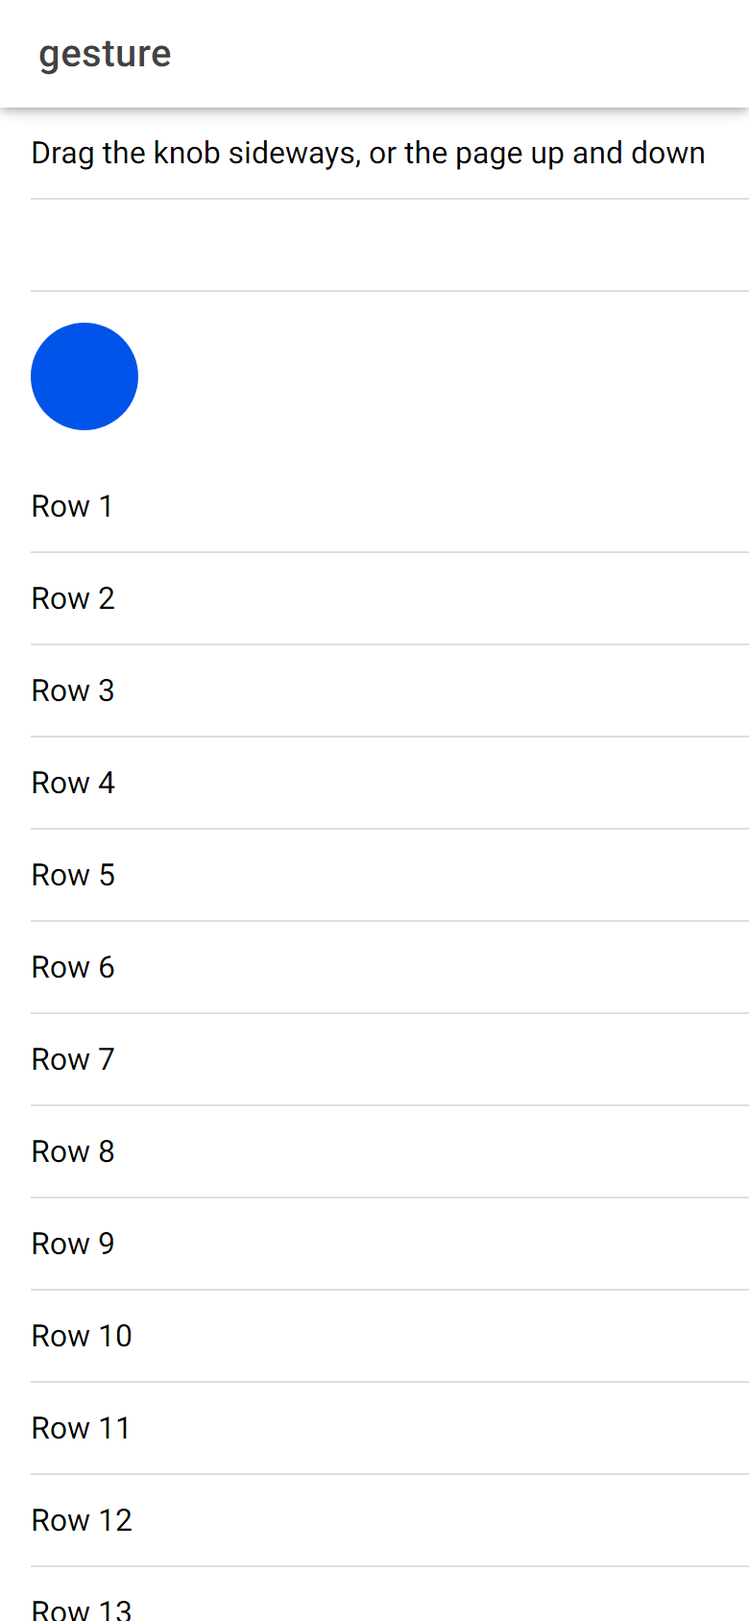
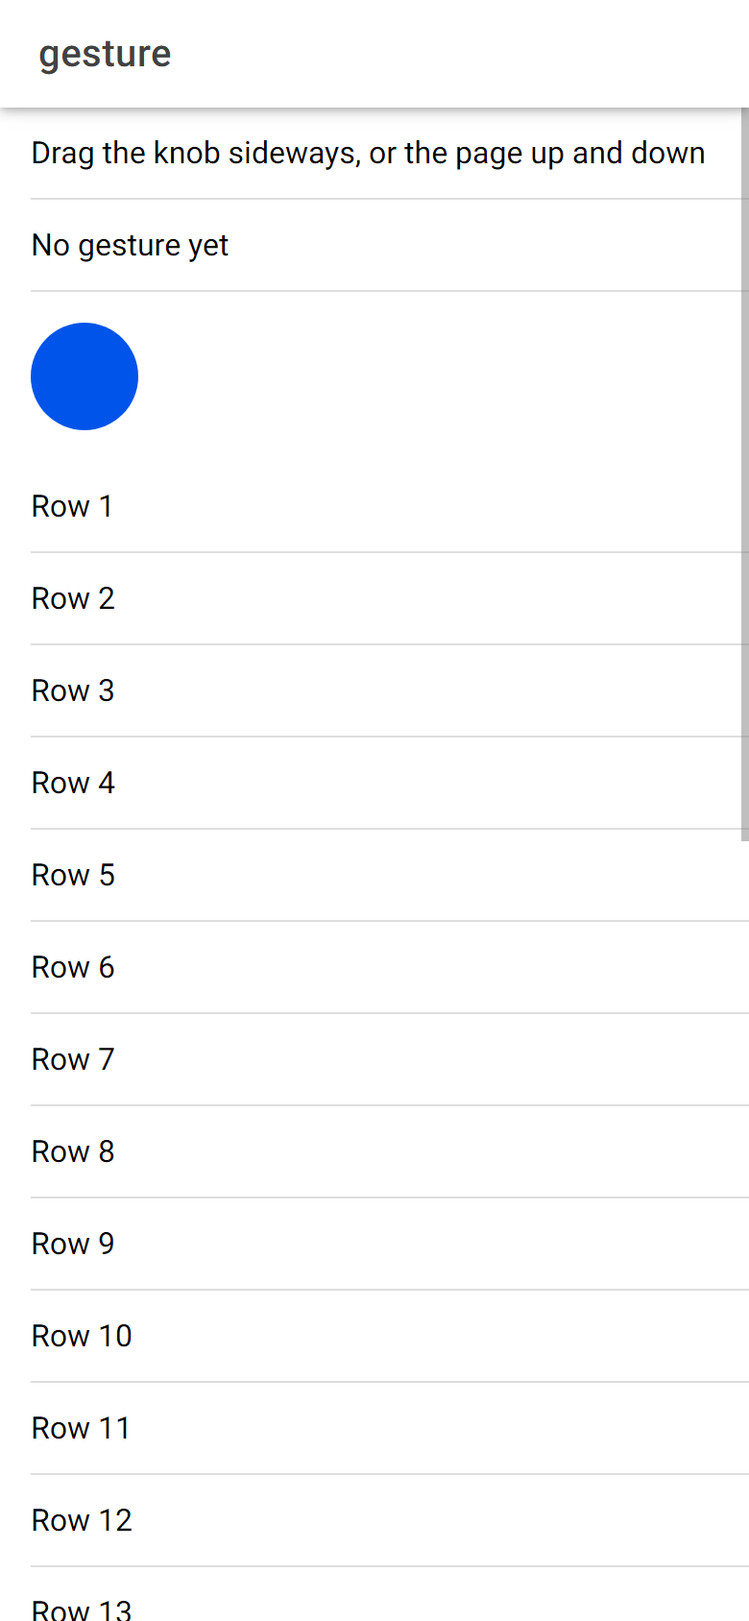
docs: roll up the tables after Ionic 9 (#190), and the pictures
CLAUDE.md: the ion-app row, the content's scroll bar, ion-img kept (ADR 0004),
the Ionic 9.0.11 / ionicons 8.1.0 base, and the mapping and Repository rows
proposed in #180, #184, #193, #194, #195, #197, #200, #208, #210 and #222.
ROADMAP: Ionic 9's 94 components, and the Done rows since the last roll-up.
swarm-brief: the datetime's month scroll under `animated` (#194), and never
posting to a repository we don't own. real-window: 239 checks on 28c4288.
Pictures regenerated; the gesture, fab, note and text pages fixed.

Changed region(s): [[0.9846, 0.0616, 1.0, 0.5237], [0.1231, 0.1232, 0.3077, 0.154], [0.0308, 0.1232, 0.0923, 0.154]]

diff --git a/CLAUDE.md b/CLAUDE.md
@@ -32,6 +32,12 @@ src/Avonic.Components/   controls: behaviour, properties, events, structure — 
                          margins, and the one-line native TextBox's ControlTheme
   Controls/List/         AvonicList, and in AvonicList.StuckDivider.cs the copy it draws of a sticky AvonicItemDivider whose row
                          its virtualising panel has recycled (for items that are data, not controls)
+  Controls/Item/         AvonicItem, IItemControl, and ItemMultipleInputsObserver (Ionic's createItemMultipleInputsObserver): a
+                         checkbox, radio or toggle watching its item's pseudoclasses, and telling the item when it comes or goes
+                         inside a wrapper in a slot
+  Controls/App/          AvonicApp, and what it starts for its TopLevel: HardwareBackButton (ionBackButton's registry),
+                         KeyboardAssist (ionKeyboardDidShow, ionKeyboardDidHide), InputShims (scroll assist and padding),
+                         AppSafeArea
   Behaviors/             Ionic's utilities as attached behaviours (NativeButton = what a native <button> does, for the controls with one;
                          AccessibleText = what a browser names a button from; TextContent = textContent, for a label to hide;
                          Activatable = tap-click; FocusVisible = focus-visible; IonStyle = the internal ionStyle event;
@@ -72,13 +78,15 @@ tests/Avonic.Components.Tests/   Avalonia.Headless (Skia) + xUnit v3 behaviour t
                                  check it on an upgrade, docs/infra/avalonia-issues.md); Harness/ tests both;
                                  Performance/ holds the style budget (docs/infra/performance/README.md)
 samples/Avonic.Sample/   the sample, a library its heads share: SampleShell (the page list, a page, Back), one page per
-                         control, each marked [SamplePage], and a device page; a Debug build shows what each page cost
-                         to open (Diagnostics/)
+                         control, each marked [SamplePage], and a device page, and a showcase (Pages/ShowcasePage.axaml,
+                         its screens in Pages/Showcase/): a small app the README's pictures show; a Debug build shows what
+                         each page cost to open (Diagnostics/)
 samples/Avonic.Sample.Desktop/   the desktop head: Program.cs, opening MainWindow, a phone-sized window
 samples/Avonic.Sample.Android/   the Android head, not in Avonic.sln, as it needs the android workload; CI's android job
                          builds the APK. Run on a Pixel 8 (docs/infra/android/README.md)
 Directory.Build.targets  generates XamlManifest.Paths from a project's AvonicDiscoveredXaml globs
 tools/ionic-api.js       core.json → fidelity checklist (the spec for every control)
+tools/ionic-diff.js      diffs two versions of Ionic as Avonic reads them, normalised, for moving the base version
 tools/ionic-ref/         renders the real Ionic component in headless Chromium (md, phone viewport):
                          screenshots, shadow DOM, boxes, resolved CSS vars → docs/components/<tag>/ref/;
                          compare-icons.js compares every icon against it, pixel by pixel; side.js puts two
@@ -90,7 +98,10 @@ tools/fonts/roboto/      Roboto 400, 500 and 700 (OFL): the sample and the tests
 tools/breakage/          breaks each behaviour in a copy of the repo, and checks that a test notices
 tools/real-window/       drives the real sample window with real input and checks it; takes over the PC, so ask first
 docs/                    PROCESS, ROADMAP, decisions, per-component plan/comparison/docs; infra/swarm-brief.md
-                         for a batch of agents, infra/avalonia-issues.md for what to report to Avalonia
+                         for a batch of agents; infra/ionic-base/ for the Ionic version and how it's moved;
+                         infra/avalonia-issues.md for what to report to Avalonia, which only the human files
+PREVIEW.md, docs/preview/   the showcase in light and dark and a frame of every sample page, from PreviewCaptureTests with
+                         AVONIC_PREVIEW_DIR set; a roll-up regenerates them
 .mcp.json                Claude Code MCP servers: avalonia-docs (Avalonia's hosted Build MCP — docs and API lookup)
 ```
 
@@ -118,7 +129,7 @@ central in `Directory.Packages.props`; warnings are errors. Solution file is `Av
 | `ion-item-divider` | `AvonicItemDivider` | done — [docs](docs/components/ion-item-divider/README.md) |
 | `ion-item-group` | `AvonicItemGroup` | done — [docs](docs/components/ion-item-group/README.md) |
 | `ion-button` | `AvonicButton` (+ `ButtonInner`, its template's inner part; `Command`, `TextTransform` as extensions) | done — [docs](docs/components/ion-button/README.md) |
-| `ion-content` | `AvonicContent` | done — [docs](docs/components/ion-content/README.md) |
+| `ion-content` | `AvonicContent` (+ `ScrollBars`, by `AvonicConfig.ContentScrollBars`, an extension, #175) | done — [docs](docs/components/ion-content/README.md) |
 | `ion-card` | `AvonicCard`, `AvonicCardHeader`, `AvonicCardTitle`, `AvonicCardSubtitle`, `AvonicCardContent` | done — [docs](docs/components/ion-card/README.md) |
 | `ion-header` | `AvonicHeader` | done — [docs](docs/components/ion-header/README.md) |
 | `ion-footer` | `AvonicFooter` | done — [docs](docs/components/ion-footer/README.md) |
@@ -132,7 +143,7 @@ central in `Directory.Packages.props`; warnings are errors. Solution file is `Av
 | `ion-badge` | `AvonicBadge` | done — [docs](docs/components/ion-badge/README.md) |
 | `ion-avatar` | `AvonicAvatar` | done — [docs](docs/components/ion-avatar/README.md) |
 | `ion-thumbnail` | `AvonicThumbnail` | done — [docs](docs/components/ion-thumbnail/README.md) |
-| `ion-img` | `AvonicImg` | done — [docs](docs/components/ion-img/README.md) |
+| `ion-img` | `AvonicImg` | done, kept ([ADR 0004](docs/decisions/0004-keep-what-the-browser-does.md)) — [docs](docs/components/ion-img/README.md) |
 | `ion-skeleton-text` | `AvonicSkeletonText` | done — [docs](docs/components/ion-skeleton-text/README.md) |
 | `ion-progress-bar` | `AvonicProgressBar` | done — [docs](docs/components/ion-progress-bar/README.md) |
 | `ion-chip` | `AvonicChip` (+ `Click`, from `Behaviors.NativeButton`, and `Command`, as extensions) | done — [docs](docs/components/ion-chip/README.md) |
@@ -155,6 +166,7 @@ central in `Directory.Packages.props`; warnings are errors. Solution file is `Av
 | `ion-reorder`, `ion-reorder-group` | `AvonicReorder`, `AvonicReorderGroup` (`Disabled`, true by default as Ionic's, turns only the drag off; `Complete(list)` reorders a list) | done — [docs](docs/components/ion-reorder/README.md) |
 | `ion-refresher`, `ion-refresher-content` | `AvonicRefresher`, `AvonicRefresherContent` (md's native refresher; Ionic's legacy one isn't here; + `RefresherColumn`, the content's column, centred both ways as a flex column is) | done — [docs](docs/components/ion-refresher/README.md) |
 | `ion-picker`, `ion-picker-column`, `ion-picker-column-option` | `AvonicPicker`, `AvonicPickerColumn`, `AvonicPickerColumnOption` (+ `PickerColumnPanel`, the column's snapping panel; `HorizontalContentAlignment` on the column, as an extension) | done — [docs](docs/components/ion-picker/README.md) |
+| `ion-app` | `AvonicApp` (+ `HardwareBackButton`, `KeyboardAssist`; `AvonicConfig.HandleUnclaimedBack` as an extension) | done — [docs](docs/components/ion-app/README.md) |
 
 Every row has completed every step in `docs/PROCESS.md`. Rows are added in a roll-up at the end of
 each priority tier, not by the control's own PR, so a recently finished control may be missing. For
@@ -165,7 +177,8 @@ the latest, see the `Status:` line in `docs/components/<ion-tag>/README.md`
 
 ## Ionic reference material
 
-Fetched by `npm install` (never committed):
+Fetched by `npm install` (never committed): Ionic **9.0.11** (`@ionic/core`, `@ionic/docs`) and ionicons **8.1.0**, the base
+[`docs/infra/ionic-base/README.md`](docs/infra/ionic-base/README.md) records, with how it's moved.
 
 | What | Path |
 |---|---|
@@ -195,7 +208,7 @@ in the published npm package — do not look for `.tsx` or `.scss` files.
 | `@Event() ionFoo` | routed event `IonFooEvent`, CLR event `IonFoo` — prefix kept, no collisions with Avalonia members | `ionChange` → `IonChange` |
 | `@Method() foo()` | public method `Foo()`; `Promise<T>` → `T` (sync) unless genuinely async | `close()` → `Close()` |
 | default slot | `Content` | |
-| Many children, with no slot in `core.json` | `Items` | `ion-list` → `AvonicList.Items` |
+| A default slot for many children that the component lays out or manages (its `.js` reads its children, or its CSS lays them out as a row, a stack or a wrap), whether `core.json` lists the slot or not: since Ionic 9 it lists `(default)` on most components, and still on none of `ion-list`, `ion-item-group`, `ion-reorder-group`, `ion-item-options` | `Items` | `ion-list` → `AvonicList.Items`, `ion-row` → `AvonicRow.Items`; a slot for text or one thing (`ion-label`, `ion-badge`, `ion-card-content`) stays `Content` |
 | named slot `foo` | `FooContent` (+ `FooContentTemplate`) | `start` → `StartContent`; `icon-only` → `IconOnlyContent` |
 | `part="foo"` | template element `PART_Foo` | `native` → `PART_Native` |
 | host class from a prop | pseudoclass `:<prop>-<value>` | `button-solid` → `:fill-solid` |
@@ -253,7 +266,7 @@ in the published npm package — do not look for `.tsx` or `.scss` files.
 | A slotted child with no height of its own, in a panel | It collapses, as `align-items: center` does in CSS. `VerticalAlignment="Stretch"` on it fills the panel | A background behind text: put the `Grid` in a `Border`, which isn't a panel |
 | `::slotted(ion-foo:not(:first-child))` | `c\|Host > :is(Panel) > c\|Foo:not(:nth-child(1))` | a panel stands for the slot |
 | `ion-foo.ion-color .ion-inherit-color` | `c\|Foo:ion-color c\|Bar`, with `Foreground` bound to `$parent[Control].(TextElement.Foreground)` | after `:ion-color`, which it beats |
-| `--ion-safe-area-top` | `Avonic.SafeAreaTop` (`double`), 0 by default, as Avalonia pads its root view itself. The app fills them | also `Bottom`, `Left`, `Right`. `calc(var(--padding-start) + var(--ion-safe-area-left))` → `Css.SafeAreaBox`, which swaps sides in RTL. The item, the divider and the list header read them |
+| `--ion-safe-area-top` | `Avonic.SafeAreaTop` (`double`), 0 by default, as Avalonia pads its root view itself. `AvonicApp` fills them while the root has `TopLevel.AutoSafeAreaPadding` off; without one, the app does | also `Bottom`, `Left`, `Right`. `calc(var(--padding-start) + var(--ion-safe-area-left))` → `Css.SafeAreaBox`, which swaps sides in RTL. The item, the divider and the list header read them |
 | `requestAnimationFrame`, `readTask` | `AvonicConfig.RequestFrame` | `TestClock` runs it at 16 ms, so that it asserts the timeline |
 | Ionic's global config (`config.get('foo')`) | A static property on `AvonicConfig`, read when Ionic reads it: in `render()`, that's the first attach and each change of a prop; as a prop's default, in the constructor, at style priority, so an app's value wins; in `componentWillLoad` or `componentDidLoad`, once, on the first load, through `ConfigOnLoad<T>` made in the constructor: `AtStylePriority`, or `IfUnset` (`SetCurrentValue` if the prop isn't set), where clearing it later must give Ionic's `undefined`. A spinner key is a `ConfigSpinner?`: null is not set, so the fallback applies, and `ConfigSpinner.None` is Ionic's `null`, which `config.get` returns as it is | `spinner` → `AvonicConfig.Spinner`; `backButtonIcon` → `AvonicConfig.BackButtonIcon`, the searchbar's `CancelButtonIcon`; `toggleOnOffLabels` → `AvonicConfig.ToggleOnOffLabels` (constructor); `tabButtonLayout` → `AvonicConfig.TabButtonLayout` (first attach, style priority); `infiniteLoadingSpinner` → `AvonicConfig.InfiniteLoadingSpinner` (first attach, `IfUnset`: cleared, no spinner); `refreshingIcon`, `refreshingSpinner` → `AvonicConfig.RefreshingIcon`, `.RefreshingSpinner` (first load, `IfUnset`) |
 | `overflow: hidden` on a scroller's vertical axis | `Hidden`, with input blocked in the control, not `Disabled`, which resets the position | `ScrollY="False"` |
@@ -271,7 +284,8 @@ in the published npm package — do not look for `.tsx` or `.scss` files.
 | `createAnimation()` | `AvonicAnimation.Create()`, members in PascalCase; CSS values as strings, `var()` read from the resource by the builder | `.fromTo('opacity', 0.01, 'var(--backdrop-opacity)')` → `.FromTo("opacity", 0.01, backdropOpacity)` |
 | `Promise<T>` of an overlay | `Task<T>`, completing on the dispatcher with continuations run asynchronously, as a promise's | `onDidDismiss()` → `OnDidDismiss()` |
 | An overlay's generic `willPresent`, `didPresent`, `willDismiss`, `didDismiss` | `WillPresent`, `DidPresent`, `WillDismiss`, `DidDismiss` on `AvonicOverlay`; each control adds its per-control `Ion<Name>WillPresent` set | `ion<Name>WillPresent` → `Ion<Name>WillPresent`, from the first overlay control (P3) |
-| `ionBackButton` at a priority | `TopLevel.BackRequested`, handled when acted on, until `ion-app` (#65) brings the registry | an overlay's 100 |
+| `ionBackButton`, `register(priority, handler)` | `HardwareBackButton.IonBackButtonEvent` on the `TopLevel`, `BackButtonEventArgs.Register`, raised while an `AvonicApp` is in it | an overlay's 100 |
+| A window event a native plugin raises (`keyboardDidShow`) | A routed event on the `TopLevel`, from Avalonia's platform API (`InputPane`) | `KeyboardAssist` |
 | A text node beside slotted elements | Not counted for `:nth-child`: the host's `IChildIndexProvider` skips an item shown as its text | `AvonicChip` |
 | A host that wraps every item in a slot | Clear `ContentTemplate` on the slot for a control, as a stock `ItemsControl` doesn't wrap a control | `AvonicChip` |
 | A CSS transition on a value the control computes | `Animation/CssTransition`, internal, with the timing function: on `AvonicConfig`'s clock, from the value shown, with CSS's reversing shortening factor through the timing function, and none before the control's first frame | `AvonicProgressBar`'s progress and track (`transition: transform 150ms linear`); the reorder group's `ease` and the sliding item's `cubic-bezier(0.36, 0.66, 0.04, 1)`; the accordion's `max-height` |
@@ -279,6 +293,7 @@ in the published npm package — do not look for `.tsx` or `.scss` files.
 | `display: none` on the control or an ancestor stops its CSS animations | Stop the frames when a frame finds it hidden, and restart from 0 when every hidden visual in its chain shows. A hide and show between two frames restarts nothing, as in Chromium | `AvonicProgressBar`, `AvonicSkeletonText`, with `HiddenChainWatcher`. `AvonicSpinner` differs: it restarts on any show |
 | `IntersectionObserver` with no `rootMargin` | `EffectiveViewportChanged`, listened to only while waiting, an edge counting. Ask for an arrange when starting, as a new listener hears nothing until a layout pass; watch the hidden chain with `HiddenChainWatcher`, as showing raises nothing; check again after a pass that changed the size. A viewport of no width and no height intersects nothing | `AvonicImg` |
 | An `<img src>` | `AvonicImg.Loader`, internal: `http(s)`, `data:` base64, `avares:`, `file:`, paths, read and decoded on the thread pool; tests replace it | `ion-img` |
+| A component Ionic deprecates or removes because the browser now does its job | Kept, or built, as Avonic's API, unless Avalonia or .NET does that job: not `[Obsolete]`, Ionic's names, and Ionic's last version as its reference. Its README's status ends with `kept:` ([ADR 0004](docs/decisions/0004-keep-what-the-browser-does.md)) | `ion-img`, deprecated in 9 for `<img loading="lazy">` → `AvonicImg` |
 | What a browser draws for an `<img>` with no picture (the broken-image icon, the alt text, the box) | Parts of the template, which the control shows when Chromium shows its own, measured; the icon as path data in the theme, Avonic's own drawing, with `Avonic.<Name>.*Brush` keys. An inline icon is an empty inline space with the icon drawn over it, as an embedded control with a resource is measured during the render | `AvonicImg`'s `PART_Alt`, `PART_Broken` |
 | `background-position` animated over a repeating gradient | A part one tile wider than the host, painted by the theme, moved by its `RenderTransform` on `AvonicConfig`'s clock. Physical in RTL: the part is left to right, and its move is mirrored | `AvonicSkeletonText`'s `PART_Shimmer` |
 | `height: inherit` | `Height` bound to `$parent[Control].Height` in the theme | `AvonicSkeletonText` |
@@ -298,7 +313,7 @@ in the published npm package — do not look for `.tsx` or `.scss` files.
 | A CSS transition in the theme, which a first style doesn't run | The theme's `Transitions` under a `:drawn` pseudoclass the control sets from its first frame, as a transition can't be taken back once it's started | `AvonicCheckbox` |
 | `labelPlacement`, `justify`, `alignment` on a form control (`.xxx-wrapper`) | `LabelledControlPanel` as `PART_Wrapper`, the control's own enums mapped by name through `LabelledControlPanel.FromControl` | `AvonicCheckbox`, `AvonicRadio`, `AvonicToggle` |
 | `opacity` on a control whose parts overlap | `OpacityMask` with a solid brush at that alpha, as Avalonia's `Opacity` fades each part on its own | `AvonicToggle`'s disabled 0.38; `AvonicInput`, `AvonicTextarea`, `AvonicSearchbar` |
-| `isRTL(el)` | The control's `FlowDirection`, which inherits from any ancestor, where Ionic reads only the element's and the document's `dir` | `AvonicToggle`'s drag |
+| `isRTL(el)`, `isEndSide(side, el)` | The control's `FlowDirection`, which inherits from any ancestor, as Ionic's `isRTL(el)` does since 9.0.10: the nearest ancestor's `dir`, then the document's | `AvonicToggle`'s drag; `AvonicProgressBar`, `AvonicCol`, `AvonicItemSliding` |
 | A native `<input>` | A `TextBox` with a minimal `ControlTheme`, `Value` kept in step through `Text`'s property change (synchronous; `TextChanged` is posted), so only the user's edits raise the input event: `NativeTextField`, in `Controls/TextField/`, with what each control's `.js` does differently left to the control | `AvonicInput`, `AvonicTextarea`, `AvonicSearchbar` |
 | An `<input>` as wide as its `size`, 20 (`width: auto` on the host) | `InputNativeInput` wants Chromium's width: `ceil(ceil(20 × x) + round(xMax − xMin) − x)`, `x` the `x` glyph's advance and `xMax − xMin` from the font's `head` table, at most what's available: within 1 px at 14 sizes. A `<textarea>` is `width: auto` there too, as wide as its default `cols`, 20, by its own formula (the `rows`, `cols` row). Both are `width: 100%`, so compressible: `MinContent` gives an `IInputHost`'s `TextBox` only its box, and an `AvonicSearchbar`'s, whose `<input>` is `width: 100%` too (measured: 126 at md, its padding and the input's) | `AvonicInput` in an item's start or end slot: 199 at 16 px Roboto; `AvonicTextarea`: 164 |
 | `<label for>` around a control | `NativeButton` with no keys on the host; a click whose path from the source holds focusable content other than the control does nothing, as HTML's label activation | `AvonicInput` |
@@ -338,6 +353,13 @@ in the published npm package — do not look for `.tsx` or `.scss` files.
 | `elementsFromPoint` at a scroller's centre | The child whose arranged box holds the centre; nothing in a disabled column, whose options are `pointer-events: none` | `AvonicPickerColumn.OptionAtCentre` |
 | A global CSS file an app opts into (`typography.css`) | A `ResourceDictionary` in `Css/`, merged by the app's `Resources`, not by `AvonicTheme`; rules on one type as a `ControlTheme` for it, so a host's global style beats it in any order, as a more specific CSS rule does, and nothing else is checked against it | `Css/Typography.axaml` |
 | A value a host's rule leaves to an opt-in file (the line height of a label's `h1`) | A key the host's rule reads, set to what Chromium measures without the file, which the file sets | `Avonic.Label.HeadingLineHeight`, `Avonic.CardContent.HeadingLineHeight` |
+| `startInputShims` (scroll assist, scroll padding) | `InputShims`, started by `AvonicApp`; `AvonicContent.KeyboardOffset` at animation priority as the inline `--keyboard-offset` | on for Android, iOS and Windows |
+| An Ionic config whose default depends on the platform (`needInputShims()`) | The default from `AvonicConfig`'s platform helper (`InputShimsByDefault`, `KeyboardIsTheOnlyOne`), read through `InputShims.IsPlatform`, which tests replace | `AvonicConfig.InputShims`: on for Android, iOS and Windows |
+| A desktop browser's scroll bar, by config | `AvonicContent.ScrollBars`, its default `AvonicConfig.ContentScrollBars` read in the constructor at style priority: Avalonia's `ScrollBar`s docked in the scroller's template, taking the width, instead of the indicator; the arrows and the track as buttons of the content's own names, scrolled by the keys' curve | `AvonicContent` (#175) |
+| A press on a native scroll bar, which sends `mousedown` and no moves while its thumb drags | A press on a `ScrollBar` starts no `Gesture` | `Gesture.IsStoppedOnTheWay` (#175) |
+| `createItemMultipleInputsObserver` (a control re-rendering when its item's class flips) | `ItemMultipleInputsObserver`, internal, on attach: the nearest `AvonicItem`'s pseudoclasses, compared as bits on `Classes.CollectionChanged`; disposed on detach. It also tells the item of a control inside a wrapper, the item's `MutationObserver` | `AvonicCheckbox`, `AvonicRadio` (`:item-multiple-inputs`), `AvonicToggle` (and `:ion-activatable`) |
+| `overflow: hidden` that must not clip the element's own `box-shadow`, on a `Border` with padding | A `Clip` geometry on the part inside the `Border`, its padding box: `AvonicItem.PaddingBoxClipConverter` | `.item-inner` with `:item-focus-indicator-room` |
+| `::after` focus indicator on `:host(.ion-focused)` | A `PART_Focus` part, hidden, shown by `:ion-focused` in the theme; negative margins keep it out of the layout, and the host's `ClipToBounds` off | `AvonicCheckbox`, `AvonicToggle` (before the handle: `z-index: -1` in a stacking context), `AvonicRadio` |
 
 Avonic-only additions (touch-target enforcement, extra events) are allowed but live in a separate
 "Extensions" section of the control's doc and never shadow an Ionic name.

diff --git a/docs/ROADMAP.md b/docs/ROADMAP.md
@@ -1,7 +1,7 @@
 # Roadmap
 
-Ionic has **95** components (`node tools/ionic-api.js --list`). Avonic v2 targets **89** of them,
-all but the six under "Out of scope", in the issues listed by tier (families that can only be built and compared together
+Ionic 9.0.11 has **94** components (`node tools/ionic-api.js --list`). Avonic v2 targets **89** of them,
+all but the five under "Out of scope" that Ionic 9 still has, in the issues listed by tier (families that can only be built and compared together
 share one issue), plus the shared infrastructure they stand on. This file is the map; the issues are the work.
 `CLAUDE.md` lists only what *exists*.
 
@@ -74,6 +74,15 @@ latest, see the `Status:` line in each `README.md` under `docs/components/` and 
 | [#71](https://github.com/wdcossey/Avonic/issues/71) | `ion-item`: a flex-like layout for long content | **done** — [docs](components/ion-item/README.md) |
 | [#72](https://github.com/wdcossey/Avonic/issues/72) | `ion-item`: shared press handling, `Command`, ripple and automation | **done** — [docs](components/ion-item/README.md) |
 | [#100](https://github.com/wdcossey/Avonic/issues/100) | infra: Roboto on both sides, for the tests, the tools and the sample | **done** — [docs](infra/roboto/README.md) |
+| [#65](https://github.com/wdcossey/Avonic/issues/65) | `ion-app` | **done** — [docs](components/ion-app/README.md) |
+| [#67](https://github.com/wdcossey/Avonic/issues/67) | `ion-content`: keyboard scrolling and a scroll indicator | **done** — [docs](components/ion-content/README.md) |
+| [#175](https://github.com/wdcossey/Avonic/issues/175) | `ion-content`: a draggable scroll bar, by config | **done** — [docs](components/ion-content/README.md) |
+| [#189](https://github.com/wdcossey/Avonic/issues/189) | `ion-app`: input shims on Windows, following the touch keyboard | **done** — [docs](components/ion-app/README.md) |
+| [#139](https://github.com/wdcossey/Avonic/issues/139) | infra: CSS's `box-shadow` on Avalonia's `BoxShadow`, its blur converted | **done** — [docs](infra/box-shadow/README.md) |
+| [#188](https://github.com/wdcossey/Avonic/issues/188), [#190](https://github.com/wdcossey/Avonic/issues/190) | infra: Ionic's base moved from 8.8.1 to 8.8.19, then to 9.0.11, with what 9.0 changes in each component (#201 to #207) | **done** — [docs](infra/ionic-base/README.md) |
+| [#204](https://github.com/wdcossey/Avonic/issues/204) | `ion-icon`: font icons in the default slot (ionicons 8.1.0) | **done** — [docs](components/ion-icon/README.md) |
+| [#191](https://github.com/wdcossey/Avonic/issues/191) | a component Ionic drops for a browser feature is kept | **done** — [ADR 0004](decisions/0004-keep-what-the-browser-does.md) |
+| [#196](https://github.com/wdcossey/Avonic/issues/196) | screenshots for the README and `PREVIEW.md` | **done** — [preview](../PREVIEW.md) |
 | — | infra: a style budget, and what a page costs in a Debug build | **done** — [docs](infra/performance/README.md) |
 | — | infra: a real-window driver | **done** — [docs](../tools/real-window/README.md) |
 
@@ -89,7 +98,7 @@ the controls with no Material 3 counterpart are in [ADR 0003](decisions/0003-mat
 Reason: the router family is bound to the browser's history (`window.history`, `window.location`), and Ionic uses it only in
 plain web-component apps, leaving routing to Angular's, React's and Vue's own routers; an Avalonia app routes with its own
 (ReactiveUI, Prism, or none). Without the router, `ion-router-outlet` is one page swapped in, which `ion-nav` covers. Picker
-legacy is a legacy component. `Href`, which only a router follows, is declared only where it makes a link a link: the
+legacy is a legacy component, and Ionic 9 removed it. `Href`, which only a router follows, is declared only where it makes a link a link: the
 breadcrumb.
 (`ion-nav` and `ion-nav-link` were here too, as web routing. They aren't: `nav.js` never reads the browser's location or
 history, and is a stack of pages with a transition. They're in scope since 2026-11-11, as

diff --git a/docs/infra/swarm-brief.md b/docs/infra/swarm-brief.md
@@ -48,6 +48,11 @@ The point is that the PRs can merge in any order without a conflict.
 - **Don't pipe a script to `python -` or `node -` through a heredoc** with quotes nested inside: the shell's quoting breaks it, or it
   waits on input. Write the script to a file in your temp folder and run the file. Make edits with the Edit tool.
 - **Don't ask the human anything.** Choose the conservative option, and put it under **"For you to decide"** in the PR.
+- **Never post to a repository we don't own:** no issues, pull requests, comments, discussions or reactions in
+  AvaloniaUI/Avalonia, ionic-team/ionic-framework, ionic-team/ionicons or any other. Some projects don't want issues raised by
+  an AI. Write what you find upstream in our own docs (`docs/infra/avalonia-issues.md`; for Ionic, the file
+  [#221](https://github.com/wdcossey/Avonic/issues/221) adds), with the evidence, and the human files it by hand if they choose.
+  Issues in wdcossey/Avonic are fine.
 
 ## How to get this right
 
@@ -125,7 +130,8 @@ These are mistakes this project has already made, so don't repeat them.
 - **An `ItemsControl`'s child that is its own container inherits from the control,** its logical parent, not from the template part
   it sits in, so a part's `color` rule (`.button-native { color }`) goes on the host's `Foreground`.
 - **`AvonicConfig.Animated` isn't a master switch.** Ionic's `animated` reaches tap-click and the transitions of the accordion,
-  menu, nav, router outlet, overlays, searchbar and skeleton text only. A control Ionic doesn't make read it ignores it here too.
+  menu, nav, router outlet, overlays, searchbar and skeleton text and, since 8.8.19, the datetime's month scroll only. A control
+  Ionic doesn't make read it ignores it here too.
 - **A `VirtualizingStackPanel` makes a row's content while it measures the row, before `IndexFromContainer` knows the row,** and
   `ContainerFromIndex` reads the last pass's rows until the pass ends. Read a row's index and its neighbours from `LayoutUpdated`.
   The panel's children are only what's realised, so a rule about the row before (`.foo + .bar`) can't read `Children`: see `AvonicList`.

diff --git a/tools/real-window/README.md b/tools/real-window/README.md
@@ -64,12 +64,12 @@ once if the window doesn't fit on the screen.
     doesn't. Since #182, the same strip at the top differs at load from after the wheel's fade, as the thumb is there from load:
     run on `192cf20`, 13 of 13, and it fails (0 pixels) on `2f8eb1e`, before #182.
   - `ion-content: the scroll bar` (#175): the page's `Scroll bar` toggle on, then a mouse drag of the thumb, which has to scroll the
-    content, and a click on the down arrow, 40 more, read from the `Ended at` line; then the toggle off. Added without being run.
+    content, and a click on the down arrow, 40 more, read from the `Ended at` line; then the toggle off. Run in the full sweep
+    on `28c4288`.
   - `focus indicators` (#188): a checkbox in a multi-input item, focused by Shift+Tab then Tab, shows its circle 5 past the default
     slot's end (the item's room), and a letter clears it; a toggle in a multi-input item shows its circle beside the handle, told
-    from the item's own focus overlay. Added without being run.
-- **229 checks** run on v2 `b1ef0e9` (2026-11-16), in about five minutes, 228 passing (the miss was lost input, rerun 10 of 10);
-  since then 1 from #197 (the showcase page) and 1 from #182 (the thumb at load), each run.
+    from the item's own focus overlay. Run in the full sweep on `28c4288`.
+- **239 checks** run on v2 `28c4288` (2026-11-17), all 239 passing; no section added since.
 
 **Look at the frames as well.** It saves a frame of each page, and most of what's wrong with a page isn't something it checks.
 

diff --git a/README.md b/README.md
@@ -17,8 +17,8 @@ every screen in both, and a page for each control.
 
 > **Status: in development, with no release yet.** 49 of Ionic's components and families are done, 72 of its elements in all:
 > items and lists, buttons, cards, toolbars, the grid, form controls from checkbox to input and searchbar, segment, tabs, fab,
-> sliding items, accordion, reorder, refresher, infinite scroll and picker. Each went through every step of
-> [`docs/PROCESS.md`](docs/PROCESS.md). The list, with a link to each one's docs, is in [`CLAUDE.md`](CLAUDE.md#components),
+> sliding items, accordion, reorder, refresher, infinite scroll, picker, and the app's root, `ion-app`. Each went through every
+> step of [`docs/PROCESS.md`](docs/PROCESS.md). The list, with a link to each one's docs, is in [`CLAUDE.md`](CLAUDE.md#components),
 > rolled up at the end of each tier, so the newest may be missing; the `Status:` line of each `docs/components/<tag>/README.md`
 > is current. The overlays (toast, alert, modal, popover, menu and the rest), select and datetime are next, in
 > [`docs/ROADMAP.md`](docs/ROADMAP.md). v1 was reviewed and discarded; see [`docs/LESSONS_LEARNED.md`](docs/LESSONS_LEARNED.md).
